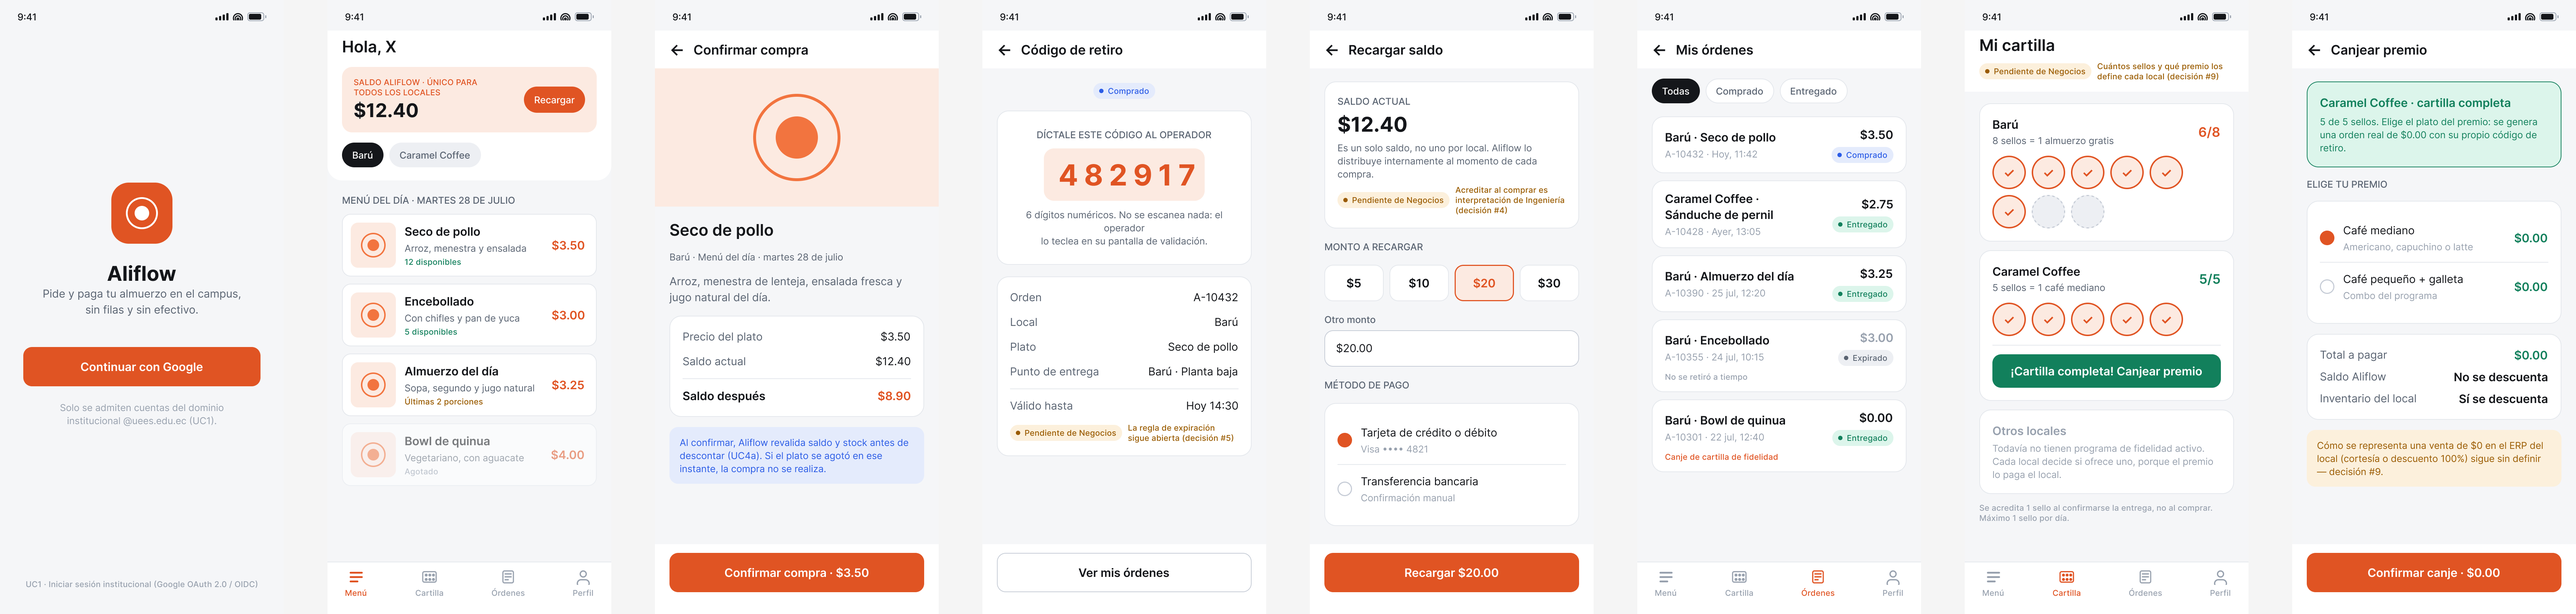
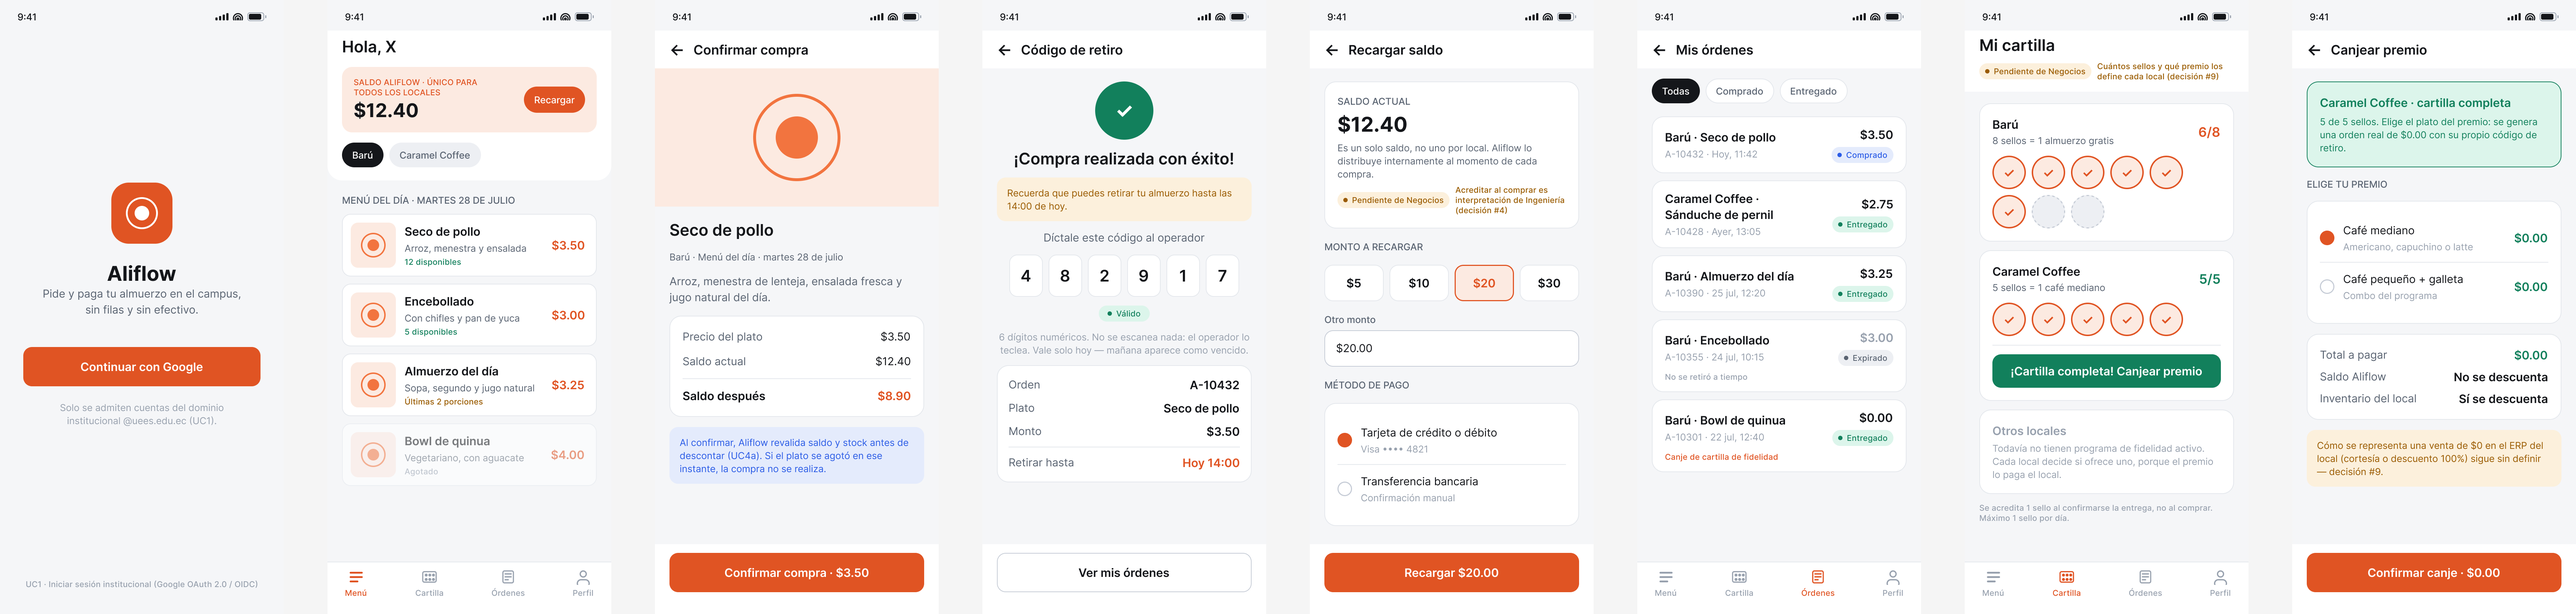
Agregar las pantallas del acta a los mockups y actualizar la documentación
Figma pasa de 17 a 21 pantallas y de 3 a 4 roles:

- Página nueva del Super-Admin con login, locales y soporte. La pantalla
  de locales es donde se da de alta un local nuevo, que era el punto que
  quedó abierto el 28-jul.
- Operador gana la pantalla de código vencido, el tercer estado. Es un
  caso distinto de "inválido" y de "ya usado": la orden existe y se pagó,
  pero pasó el día.
- La pantalla del código de retiro del Estudiante se rehízo como
  confirmación de compra con el horario máximo del local, y perdió el
  aviso amarillo de expiración porque el acta cerró esa regla.
- El menú del Proveedor ahora muestra el cupo de Aliflow frente al stock
  del ERP, y la hora de retiro configurable.

Se re-exportaron los PNG y se actualizaron README y Mockups-Prototipo.md
con el alcance nuevo, incluida la advertencia sobre la contradicción
entre custodia de fondos y saldo único.

diff --git a/Mockups-Prototipo.md b/Mockups-Prototipo.md
@@ -2,6 +2,7 @@
 
 **Preparado por:** Grupo de Ingeniería
 **Creado:** 28-jul-2026
+**Actualizado:** 30-jul-2026 — alineado con el acta de reunión: inventario reservado, horario de retiro configurable, tres estados del código y el cuarto rol
 **Entregable:** 01.f — prototipo de interfaz
 **Objetivo:** mostrar cómo se ven las decisiones ya cerradas con Negocios, y dejar visualmente marcado lo que sigue abierto.
 
@@ -16,13 +17,14 @@ Este documento no repite los casos de uso ni el modelo de datos — apunta al ca
 
 ## Alcance
 
-**17 pantallas, 3 roles.** Formato móvil 390×844.
+**21 pantallas, 4 roles.** Formato móvil 390×844.
 
 | Rol | Pantallas | Exportación |
 |---|---|---|
 | Estudiante | 8 | [`mockups/01-estudiante.png`](mockups/01-estudiante.png) |
 | Proveedor | 5 | [`mockups/02-proveedor.png`](mockups/02-proveedor.png) |
-| Operador | 4 | [`mockups/03-operador.png`](mockups/03-operador.png) |
+| Operador | 5 | [`mockups/03-operador.png`](mockups/03-operador.png) |
+| **Super-Admin** *(nuevo 30-jul)* | 3 | [`mockups/04-super-admin.png`](mockups/04-super-admin.png) |
 | Sistema de diseño | — | [`mockups/00-design-system.png`](mockups/00-design-system.png) |
 
 ---
@@ -44,7 +46,7 @@ Se usa la **misma convención que los diagramas UML**: el color amarillo con la 
 | 01 | Login institucional | UC1, UC1a | Solo Google OAuth con dominio `@uees.edu.ec` |
 | 02 | Menú del día | UC3, UC3a | **Saldo único** rotulado explícitamente "único para todos los locales"; selector de local |
 | 03 | Detalle y confirmación de compra | UC4, UC4a | Revalidación de saldo y stock antes de descontar |
-| 04 | **Código de retiro** | UC5 | **6 dígitos numéricos, sin QR**; se dicta de viva voz |
+| 04 | **Compra confirmada y código** | UC5 | **6 dígitos, sin QR**, se dicta de viva voz · confirmación de compra con el **horario máximo de retiro** del local · estado `Válido` |
 | 05 | Recargar saldo | UC2, UC2a | **Recarga única** a un solo saldo |
 | 06 | Historial de órdenes | UC11 | Estados Comprado / Entregado / Expirado; incluye una orden de canje de $0.00 |
 | 07 | Mi cartilla de fidelidad | UC13 | Una cartilla **por local**; progreso de sellos |
@@ -56,7 +58,7 @@ Se usa la **misma convención que los diagramas UML**: el color amarillo con la 
 |---|---|---|---|
 | 01 | Login operativo | UC6 | **Credenciales propias del rol**, no OAuth institucional |
 | 02 | Panel de métricas | UC9 | Vendidos, ingresos, pendientes de entrega, platos más vendidos |
-| 03 | Administrar menú | UC8 | Sincronización desde el ERP; validaciones (precio > 0, stock ≥ 0) |
+| 03 | **Menú y cupo de Aliflow** | UC8, **UC16**, **UC17** | **Cupo reservado** por plato frente al stock del ERP · **hora máxima de retiro** configurable |
 | 04 | Estado de sincronización ERP | UC10 | **Cola Outbox** con un evento fallido reintentándose; lectura por **polling** |
 | 05 | Configurar programa de fidelidad | UC14 | Sellos y premio como **configuración por local**, no constantes del sistema |
 
@@ -68,20 +70,34 @@ Se usa la **misma convención que los diagramas UML**: el color amarillo con la 
 | 02 | **Validar código de retiro** | UC5a | El Operador **teclea** el código en un teclado numérico. **No se escanea nada** |
 | 03 | Entrega confirmada | UC5b, UC5d | Estado a Entregado, código invalidado, y **sello acreditado en la cartilla** |
 | 04 | Código inválido o ya usado | UC5c | Uso único del código; se nombran los otros casos de fallo |
+| 05 | **Código vencido** *(nuevo)* | UC5c | Tercer estado del código: valía **solo el día de la compra**. Caso distinto de "inválido" y de "ya usado" |
+
+### Super-Admin de Aliflow *(rol nuevo, 30-jul-2026)*
+
+> ⚠ Acordado verbalmente en la reunión; **no consta en el acta**. Conviene incorporarlo formalmente.
+
+| # | Pantalla | Caso de uso | Qué decisión refleja |
+|---|---|---|---|
+| 01 | Login Super-Admin | UC6 | Acceso solo para el equipo de Aliflow, no de ningún local |
+| 02 | Locales | **UC18**, UC20 | **Dar de alta un local** y crear su vista de proveedor — cierra el punto abierto del 28-jul |
+| 03 | Soporte | **UC19** | Vista transversal de todos los locales: incidencias de sincronización y órdenes vencidas |
 
 ---
 
 ## Lo que el prototipo deja marcado como abierto
 
-Estas cuatro marcas amarillas corresponden una a una con las decisiones abiertas del documento de decisiones:
+Cada marca amarilla corresponde a una decisión abierta del documento de decisiones:
 
 | Dónde aparece | Decisión | Qué falta |
 |---|---|---|
-| Estudiante 04 — Código de retiro | **#5** Expiración | Cuánto dura un código sin retirar y qué pasa con el saldo |
 | Estudiante 05 — Recargar saldo | **#4** (punto fino) | Confirmar que acreditar el saldo por local **al momento de la compra** es la interpretación correcta |
 | Estudiante 07 / Proveedor 05 | **#9** Cartilla | Cuántos sellos y qué premio — por eso se modelaron como configuración |
 | Proveedor 02 — Panel de métricas | **#7** Modelo de cobro | No se muestra comisión ni cobro porque no está definido |
 | Estudiante 08 — Canjear premio | **#9** (derivada) | Cómo representar una venta de $0 en el ERP del local |
+| Operador 05 — Código vencido | *(sin número)* | El acta fijó **cuándo** vence el código, pero no qué pasa con el **dinero** de esa orden |
+| Super-Admin 02 — Locales | *(sin número)* | El rol se acordó verbalmente y **no consta en el acta** |
+
+**Marca que se retiró el 30-jul:** la pantalla del código de retiro ya no lleva el aviso de expiración pendiente. El acta cerró la regla — el código vale solo el día de la compra — así que esa pantalla pasó a dibujarse como definitiva.
 
 ---
 
@@ -101,9 +117,11 @@ Consecuencia práctica: si Negocios cambia un valor (por ejemplo el color de un 
 
 Conviene decirlas antes de que las pregunten:
 
-- **Los PNG de esta carpeta son estáticos.** Para ver los flujos funcionando está el [prototipo interactivo](https://jesus-jb.github.io/aliflow/), donde los tres roles comparten estado: el Estudiante compra, se genera un código real, el Operador lo teclea y la orden se entrega.
+- **Los PNG de esta carpeta son estáticos.** Para ver los flujos funcionando está el [prototipo interactivo](https://jesus-jb.github.io/aliflow/), donde los cuatro roles comparten estado: el Estudiante compra contra el cupo reservado, se genera un código real, el Operador lo teclea y la orden se entrega.
 - **El prototipo interactivo no tiene backend.** Todo el estado vive en memoria del navegador y se pierde al recargar. No hay base de datos, ni ERP, ni pagos reales.
 - **Los datos son de ejemplo** (nombres de platos, montos, órdenes). No provienen del demo con Odoo ni de Contífico.
 - **Las fotos de platos son marcadores de posición**, no imágenes reales.
 - **No hay pantallas para UC7** (configurar la integración ERP) ni **UC12** (gestionar usuarios del local). UC7 es trabajo técnico conjunto con Ingeniería, no una pantalla de autoservicio; UC12 quedó fuera de esta ronda.
+- **No hay pantallas de pasarela de pagos.** El acta abrió ese frente como investigación (comparar pasarelas, tokenización, webhooks), no como diseño. No se puede maquetar un flujo de pago sin saber si será modal, ventana integrada o página externa.
+- **El flujo de recarga no refleja aún la decisión #13** (custodia de fondos vs. saldo único), porque es una contradicción sin resolver entre el acta y la decisión #4.
 - **El archivo fuente vive en drafts de un equipo de Figma que no es institucional.** Las exportaciones de esta carpeta son la copia de referencia del repositorio.

diff --git a/README.md b/README.md
@@ -10,15 +10,17 @@ Proyecto de **Ingeniería de Software I** — UEES.
 
 **https://jesus-jb.github.io/aliflow/**
 
-Se abre en el navegador, no hay que descargar ni instalar nada. Es una app funcional, no imágenes: hay un selector de rol arriba a la derecha y los tres roles comparten el mismo estado.
+Se abre en el navegador, no hay que descargar ni instalar nada. Es una app funcional, no imágenes: hay un selector de rol arriba a la derecha y los **cuatro roles** comparten el mismo estado.
 
 **Recorrido sugerido (2 minutos):**
 
-1. Como **Estudiante**, compra un plato → se descuenta el saldo, baja el stock y se genera un código de retiro de 6 dígitos.
+1. Como **Estudiante**, compra un plato → se descuenta el saldo, se consume el cupo reservado y aparece la confirmación con **hasta qué hora puedes retirar**, más un código de 6 dígitos.
 2. Cambia a **Operador**, teclea ese mismo código → la orden pasa a *Entregada* y se acredita un sello.
 3. Vuelve a **Estudiante → Cartilla** → verás el sello nuevo llenándose.
-4. Vuelve a **Operador** y teclea el mismo código otra vez → *Código ya utilizado*.
-5. El botón **Reiniciar demo** (abajo) restaura todo para volver a empezar.
+4. Vuelve a **Operador** y teclea el mismo código otra vez → *Código ya utilizado*. Teclea **200315** → *Código vencido*, el tercer estado.
+5. Como **Proveedor → Menú**, verás el **cupo de Aliflow** separado del stock del ERP, y la hora de retiro configurable.
+6. Como **Super-Admin**, verás los locales de toda la plataforma y podrás dar de alta uno nuevo.
+7. El botón **Reiniciar demo** (abajo) restaura todo para volver a empezar.
 
 Credenciales ya precargadas en los formularios de Proveedor y Operador.
 
@@ -37,6 +39,9 @@ Diseño aprobado del que salió el prototipo. Archivo fuente en Figma: [Aliflow 
 ### Operador
 ![Pantallas del Operador](mockups/03-operador.png)
 
+### Super-Admin de Aliflow
+![Pantallas del Super-Admin](mockups/04-super-admin.png)
+
 > El color amarillo con la etiqueta **"Pendiente de Negocios"** marca lo que Ingeniería propuso pero el cliente todavía no validó. Es la misma convención que el estereotipo `<<propuesta>>` de los diagramas UML.
 
 ---
@@ -49,17 +54,20 @@ Por dónde empezar, en este orden:
 |---|---|
 | **[Decisiones-Pendientes-Negocios.md](Decisiones-Pendientes-Negocios.md)** | Qué está decidido, qué sigue abierto y qué cambió en el diseño como consecuencia. **Es la fuente de verdad del estado del proyecto.** |
 | **[Hallazgos-Ingenieria-API-Generica.md](Hallazgos-Ingenieria-API-Generica.md)** | Investigación de la integración con ERPs: comparación, patrón Adapter y patrón Outbox. |
-| **[Gestion-de-Riesgos.md](Gestion-de-Riesgos.md)** | 17 riesgos. R-01 (credenciales de API del ERP del piloto) es el dominante. |
-| **[Mockups-Prototipo.md](Mockups-Prototipo.md)** | Las 17 pantallas mapeadas a sus casos de uso. |
+| **[Gestion-de-Riesgos.md](Gestion-de-Riesgos.md)** | 20 riesgos. R-18 (contradicción entre custodia de fondos y saldo único) es el único que puede obligar a rehacer diseño. |
+| **[Mockups-Prototipo.md](Mockups-Prototipo.md)** | Las 21 pantallas mapeadas a sus casos de uso. |
 | **[uml/](uml/)** | Casos de uso, clases, objetos, componentes, despliegue, actividad, secuencia y estado. Cada `.puml` tiene su `.svg` y su documentación. |
 | **[demo-odoo/](demo-odoo/)** | Demo funcional en Docker con Odoo Community, adaptador en Python y pruebas reales de concurrencia. |
 
 ### Decisiones de diseño que conviene conocer
 
-- **Tres roles, sin super-admin:** Estudiante, Proveedor y Operador. Nadie tiene visibilidad sobre todos los locales.
+- **Cuatro roles:** Estudiante, Proveedor y Operador operan dentro de un local; el **Super-Admin** es de Aliflow y es el único con visibilidad sobre todos.
+- **Inventario reservado:** cada local aparta un cupo exclusivo para Aliflow. La app vende contra ese cupo, no contra el stock del ERP — así deja de competir con la caja por el mismo dato y la sobreventa se elimina por diseño.
 - **Un solo saldo:** el estudiante recarga una vez; Aliflow reparte internamente por local.
-- **Código de retiro numérico de 6 dígitos:** se dicta de viva voz y el Operador lo teclea. No hay QR ni escáner.
+- **Código de retiro numérico de 6 dígitos:** se dicta de viva voz y el Operador lo teclea. No hay QR ni escáner. Vale **solo el día de la compra**.
 - **Concurrencia en la base de datos de Aliflow, no en el ERP:** validado empíricamente en el demo, ver `demo-odoo/README.md` sección 7.
+
+> ⚠ **Decisión abierta que bloquea el modelo de billetera:** el acta del 30-jul dice que el dinero va directo a la cuenta de cada proveedor y que Aliflow no custodia fondos; la decisión #4 define un saldo único gastable en cualquier local. Al recargar todavía no se sabe dónde se comprará. Ver `Decisiones-Pendientes-Negocios.md`, punto 13.
 
 ---
 
